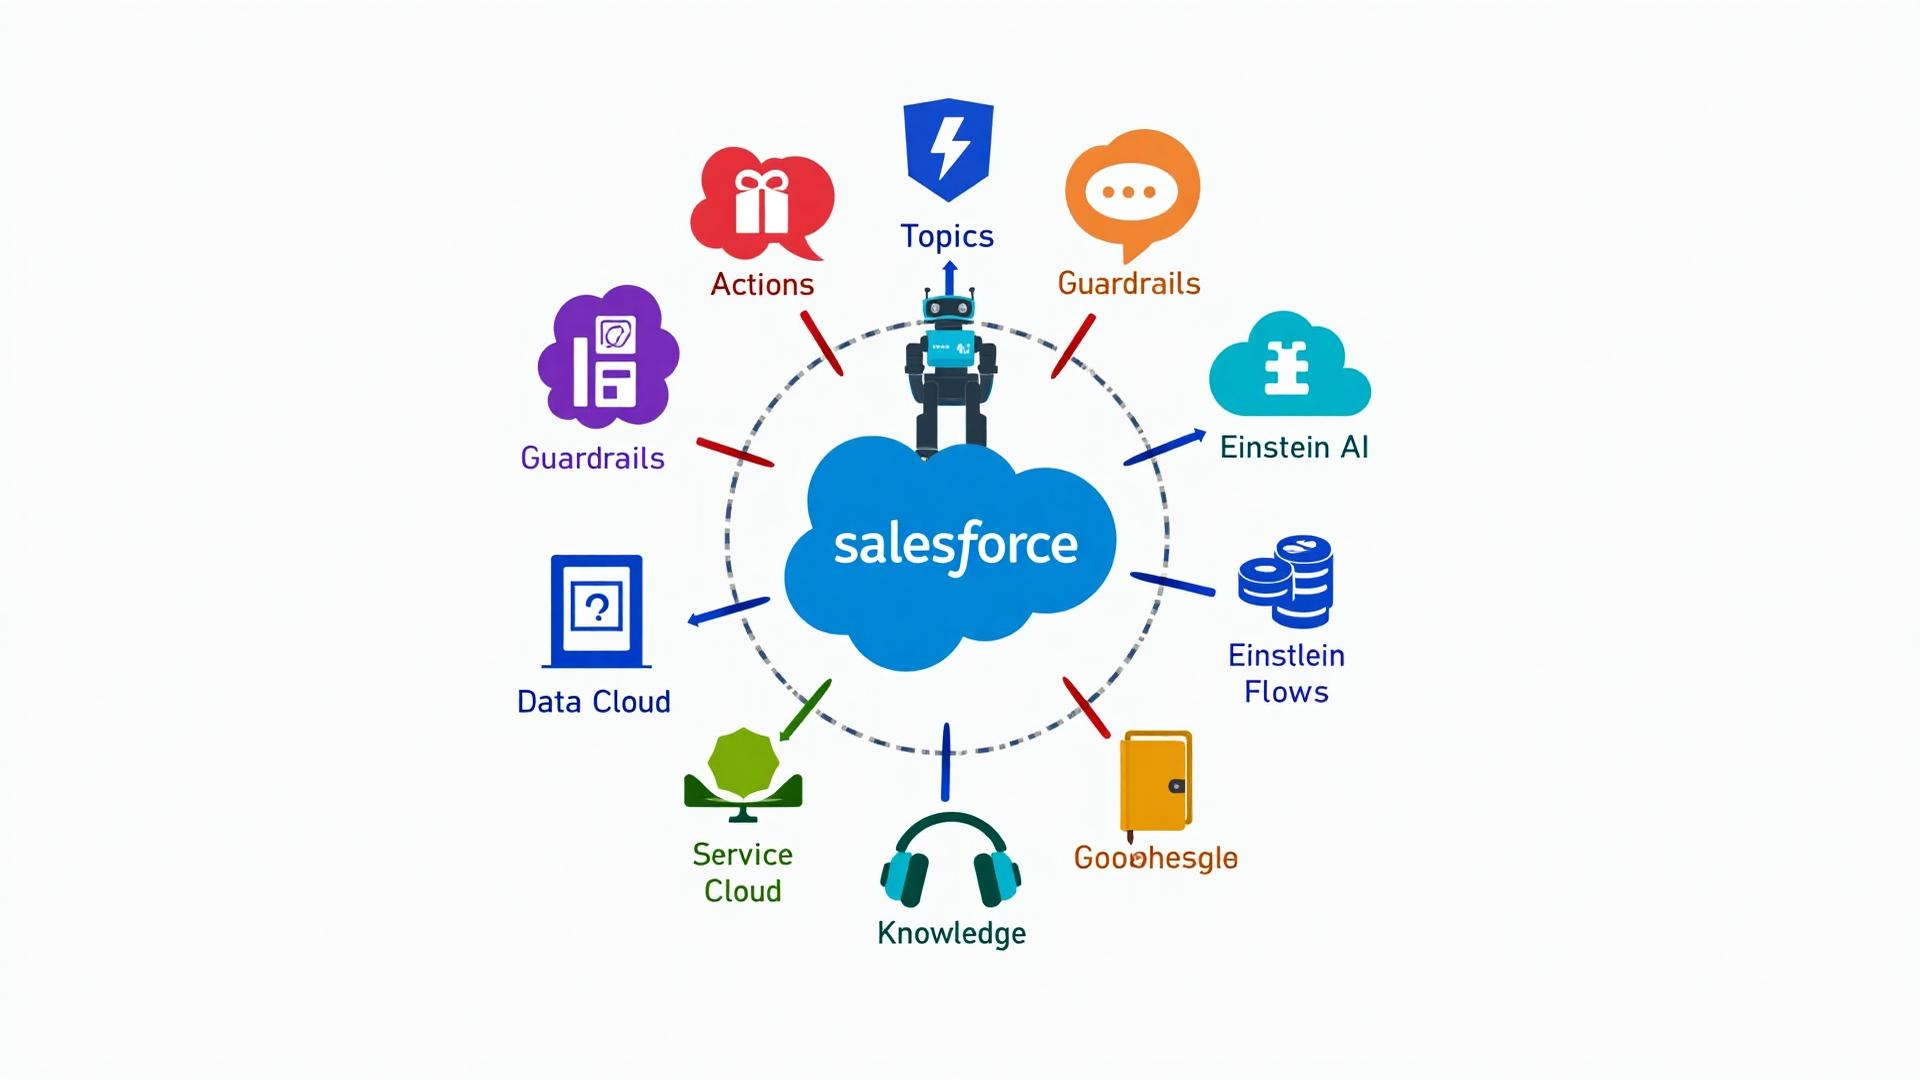
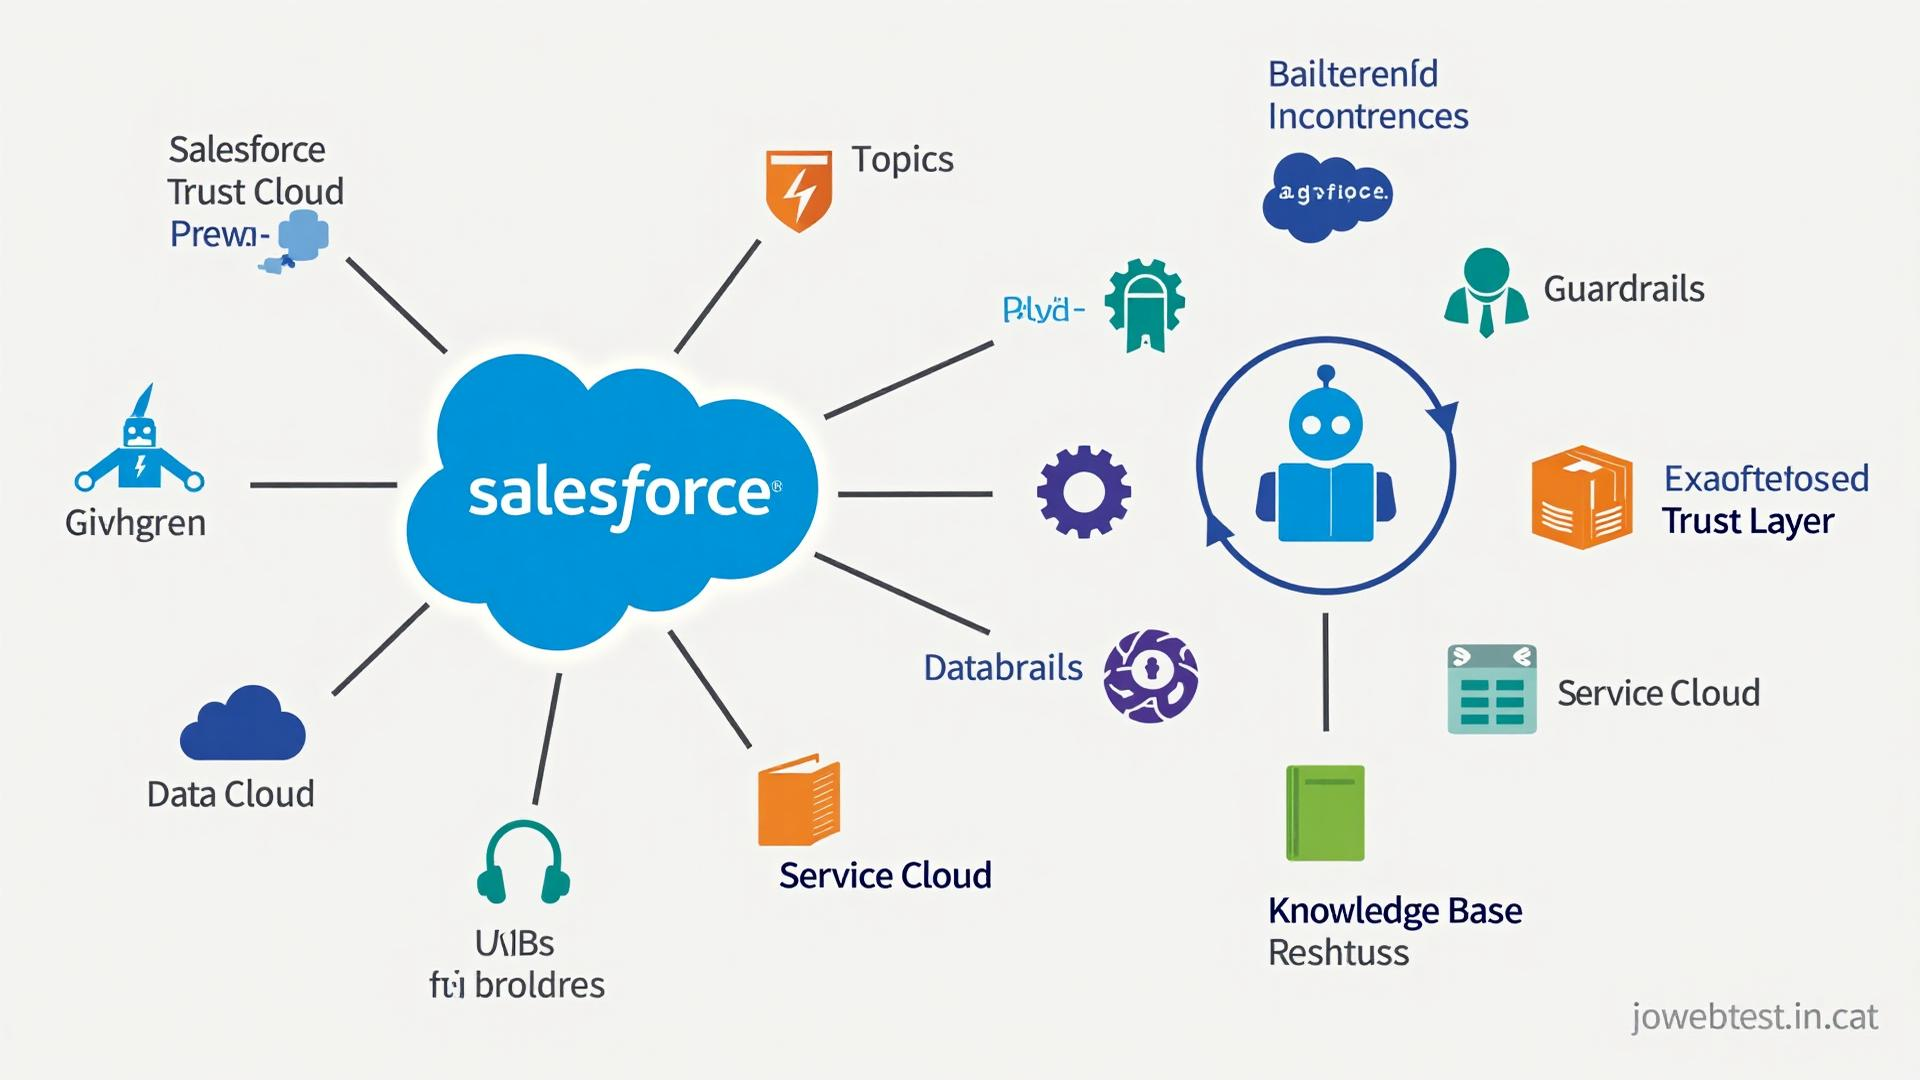
Changes

diff --git a/docs/ARCHITECTURE.md b/docs/ARCHITECTURE.md
@@ -171,19 +171,28 @@ flowchart TB
 
 ![Salesforce Agentforce Architecture](./salesforce-agentforce-architecture.jpg)
 
-**Diagram Legend (Salesforce Agentforce Hub & Spoke):**
+**Salesforce Agentforce Component Architecture (from Salesforce Trailhead):**
 
-| Component | Description |
-|-----------|-------------|
-| **Salesforce (Center)** | Core Agentforce platform with AI Agent |
-| **Topics** | Conversation scope and intent classification |
-| **Actions** | Executable operations (reservations, bookings) |
-| **Guardrails** | Safety boundaries and restrictions |
-| **Einstein AI** | AI engine powering natural language understanding |
-| **Einstein Flows** | Automation and workflow orchestration |
-| **Data Cloud** | Unified customer data platform |
-| **Service Cloud** | Customer service and case escalation |
-| **Knowledge** | Restaurant info, FAQs, and policies |
+| Component | Salesforce Term | Description |
+|-----------|-----------------|-------------|
+| **Agentforce Agent** | Agent Engine | Core conversational AI that orchestrates all components |
+| **Topics** | Topic Classification | Categories of actions related to specific jobs (e.g., Reservations, Cancellations) |
+| **Actions** | Standard/Custom Actions | Tools the agent uses to complete tasks (e.g., Create Reservation, Check Availability) |
+| **Guardrails** | Agentforce Guardrails | Ethical and security rules that define agent behavior boundaries |
+| **Einstein Trust Layer** | Trust Layer | Secure AI architecture with prompt defense, toxicity detection, data masking |
+| **Data Cloud** | Salesforce Data Cloud | Unified customer data platform for grounding AI responses |
+| **Service Cloud** | Service Cloud | Customer service integration for human agent escalation |
+| **Knowledge Base** | Salesforce Knowledge | Restaurant info, FAQs, policies for grounding responses |
+| **Salesforce Flow** | Flow Automation | Business process automation triggered by agent actions |
+
+**Agentforce Guardrail Types (from Salesforce documentation):**
+
+| Guardrail Level | Description |
+|-----------------|-------------|
+| **Platform Guardrails** | Acceptable Use Policy (AUP), AI Acceptable Use Policy, Model Containment Policies |
+| **Agentforce Guardrails** | Product-specific rules, ethical guardrails to minimize hallucinations, security guardrails for prompt injection |
+| **Topic Instructions** | Custom guidelines using "Always...", "Never...", "If x, then y..." patterns |
+| **Agent Type Settings** | Pre-configured behaviors for specific agent types (Service Agent, SDR Agent) |
 
 ### Agentforce Component Details
 
@@ -1123,15 +1132,26 @@ flowchart LR
 
 ![Prompt Injection Protection Flow](./prompt-injection-protection.jpg)
 
-**Diagram Legend (Einstein Trust Layer Security Pipeline):**
+**Einstein Trust Layer Security Pipeline (based on Salesforce official documentation):**
 
-| Stage | Description |
-|-------|-------------|
-| **Input** | User message enters the system |
-| **Pattern Detection** | Scans for known injection patterns and malicious content |
-| **Semantic Analysis** | AI-powered intent analysis to detect disguised attacks |
-| **Trust Layer** | Einstein Trust Layer validates and filters content |
-| **Safe Output** | Validated, sanitized response delivered to user |
+| Stage | Salesforce Component | Description |
+|-------|---------------------|-------------|
+| **1. User Prompt** | Input Capture | User message enters the Agentforce system |
+| **2. Prompt Defense** | Prompt Injection Detection | AI classifier detects malicious prompts using taxonomy-based detection (Pretending/Role-play, Privilege Escalation, Prompt Leakage, Adversarial Suffix, Privacy Attacks, Malicious Code Generation) |
+| **3. Toxicity Detection** | Toxicity Detector | LLM responses are scanned for potentially harmful content |
+| **4. Data Masking** | Secure Data Masking | Sensitive data (PII, credentials) automatically masked before response |
+| **5. Secure Ground** | Zero-Data Retention | Data grounded in trusted company data, never retained by third-party LLMs |
+
+**Salesforce Prompt Injection Taxonomy (from Salesforce AI Research):**
+
+| Type | Description |
+|------|-------------|
+| **Pretending/Role-play** | Instructing the LLM to assume a different "system persona" with malicious intent |
+| **Privilege Escalation** | Injecting instructions to bypass/change system policies (e.g., DAN jailbreak) |
+| **Prompt Leakage** | Attempts to leak system prompts and contextual knowledge for reconnaissance |
+| **Adversarial Suffix** | Random character encodings designed to circumvent guardrails |
+| **Privacy Attacks** | Prompts to extract, infer, or expose personal/confidential data |
+| **Malicious Code Generation** | Prompts attempting to generate malware, viruses, or fraud utilities |
 
 The platform is protected against six categories of prompt injection attacks:
 
